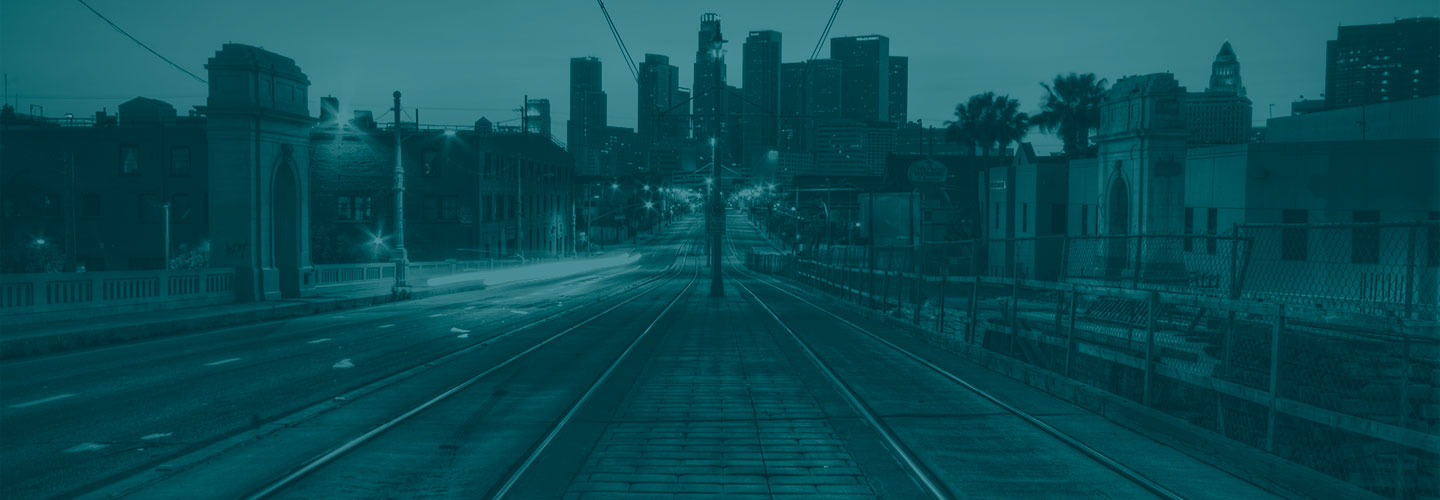
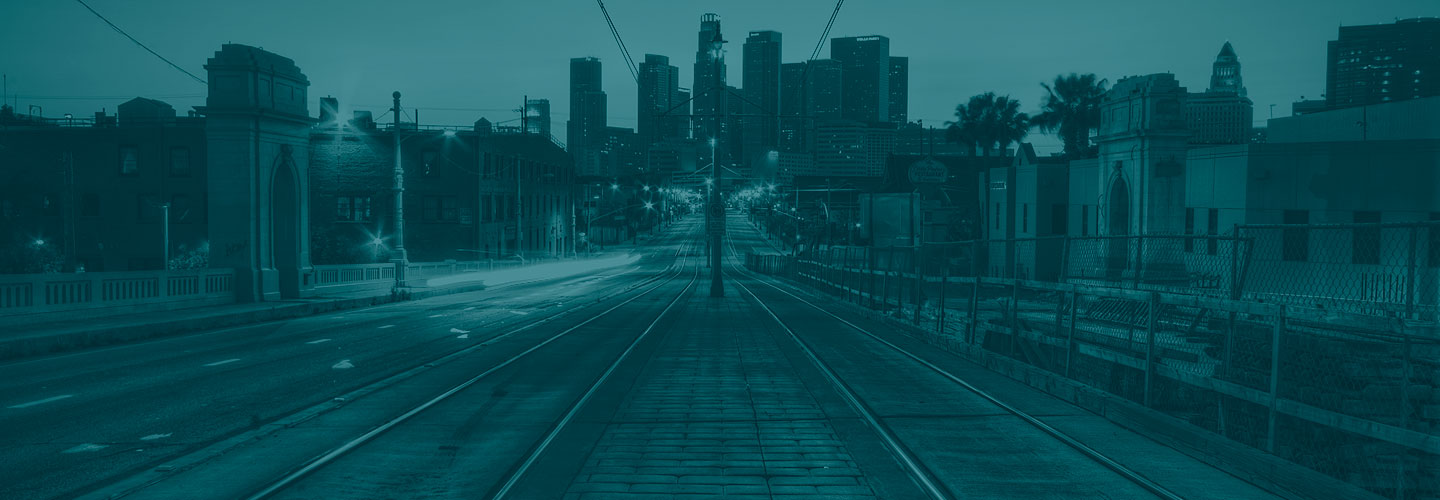
add some scrolling goodness to the hero image on the index page

Changed region(s): [[0.9375, 0.54, 1.0, 0.6], [0.25, 0.54, 0.2812, 0.57]]

diff --git a/source/stylesheets/_home.scss b/source/stylesheets/_home.scss
@@ -1,10 +1,30 @@
 .index {
   header {
-    background:url(../images/intro-el-lay.jpg) no-repeat 50% 20%;
-    background-size:cover;
     height:27em;
     padding-top:3em;
+    position:relative;
     text-align:center;
+
+    .img-src {
+        position:absolute;
+        background-image:url('../images/intro-el-lay.jpg');
+        background-position:50% 20%;
+        background-size:cover;
+        top:0;
+        bottom:0;
+        left:0;
+        right:0;
+    }
+    .img-src.color {
+      background-image:url('../images/intro-el-lay-color.jpg');
+      opacity:0;
+    }
+
+    .bound {
+      position:relative;
+      z-index:100;
+    }
+
   }
     h1 {
       @extend .marquee-heading;

diff --git a/source/javascripts/scripts.js b/source/javascripts/scripts.js
@@ -3,4 +3,12 @@ $(document).ready(function() {
   $('.nav-toggle, .nav-close').click(function() {
     $('.site-nav').toggleClass("active");
   });
+
+  // Fade in color image as user scrolls
+  $(window).scroll(function(e) {
+    var s = $(window).scrollTop(),
+        opacityVal = (s / 150.0);
+
+    $('.color').css('opacity', opacityVal); 
+  });
 });
